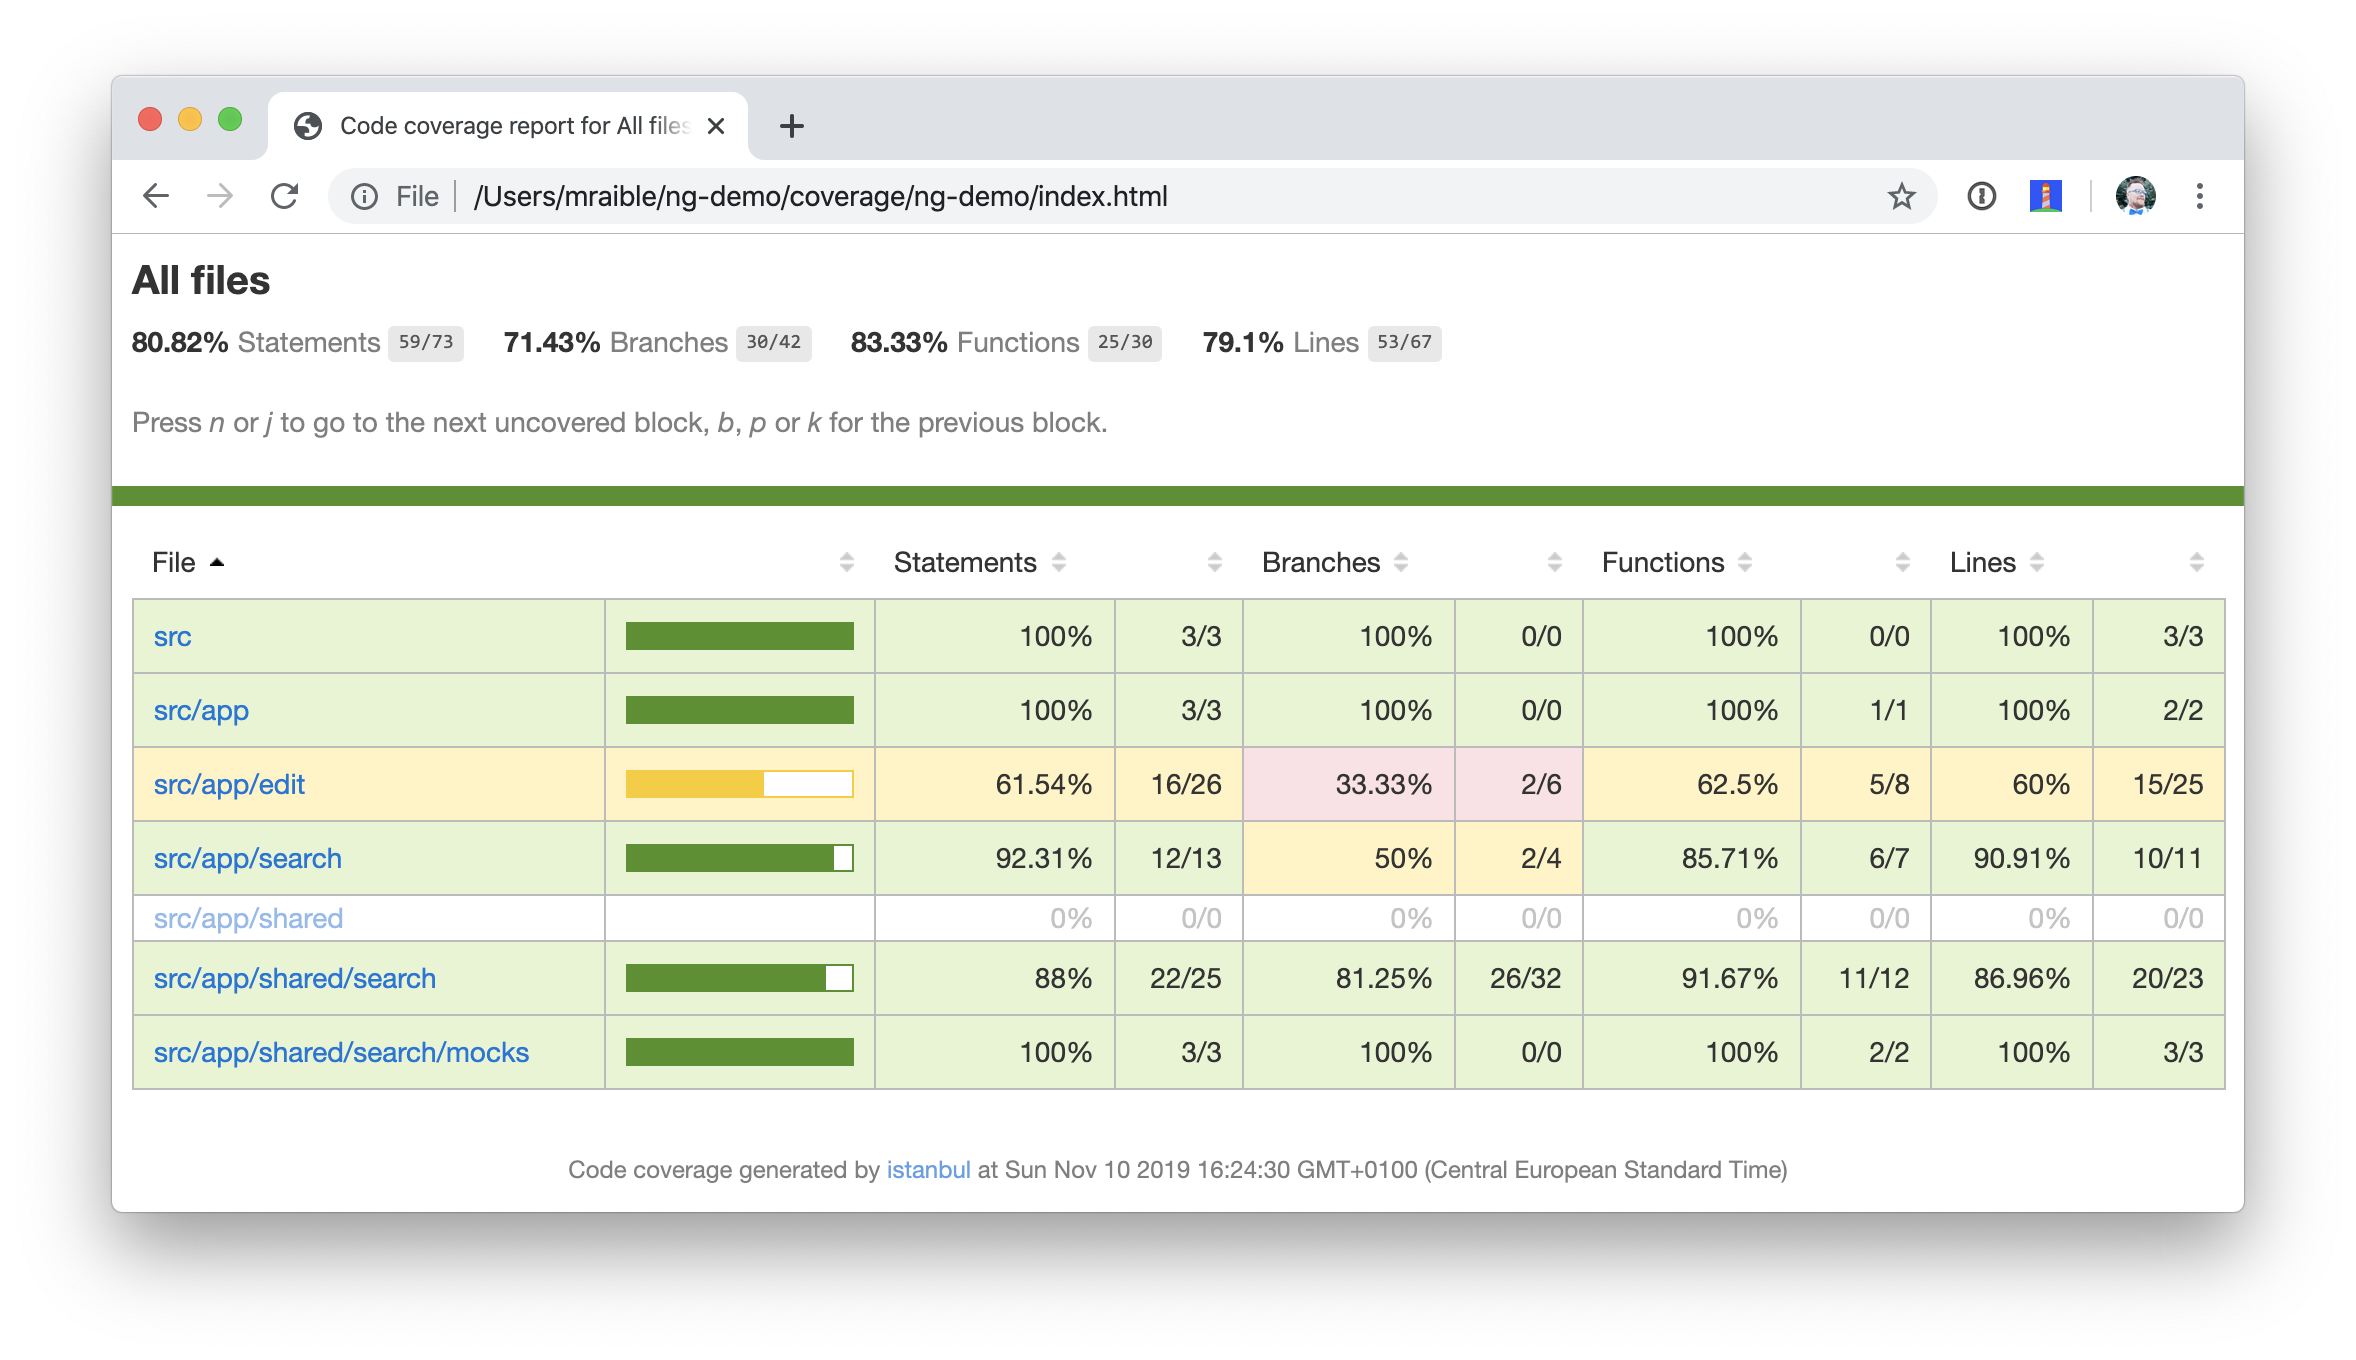
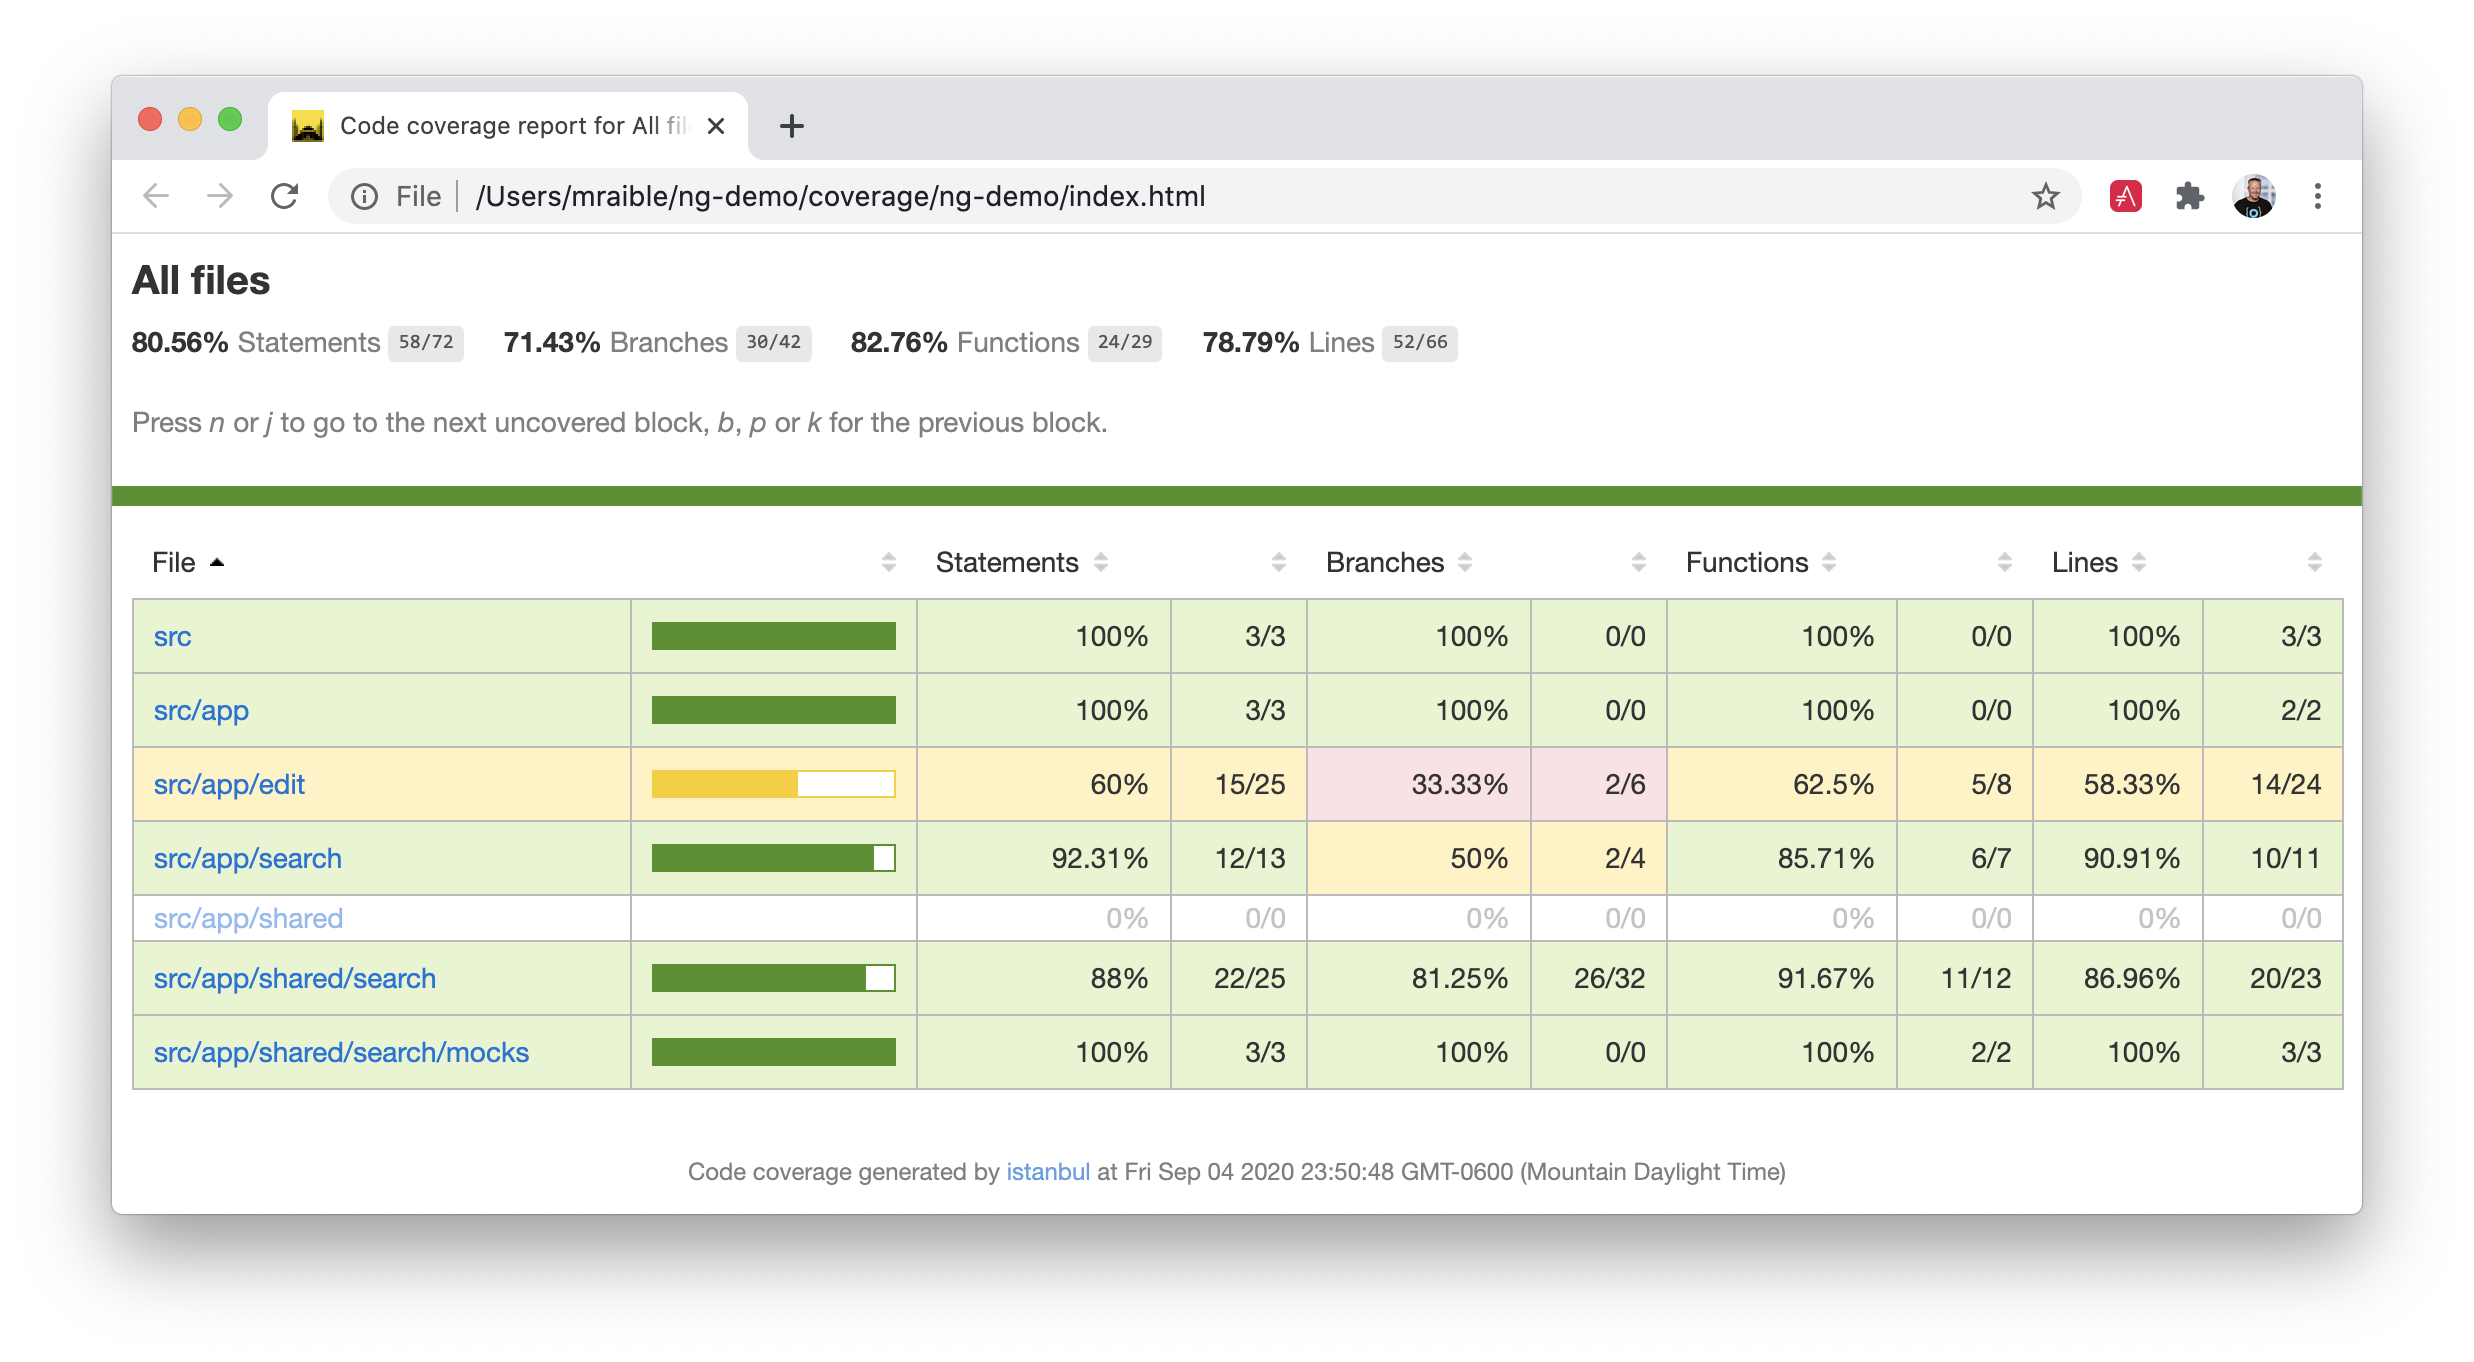
Update CI to add GitHub Actions Update Heroku instructions to use static buildpack

diff --git a/src/app/edit/edit.component.spec.ts b/src/app/edit/edit.component.spec.ts
@@ -1,25 +1,54 @@
-import { ComponentFixture, TestBed } from '@angular/core/testing';
-
 import { EditComponent } from './edit.component';
+import { TestBed } from '@angular/core/testing';
+import { Address, Person, SearchService } from '../shared';
+import { MockActivatedRoute, MockRouter } from '../shared/search/mocks/routes';
+import { ActivatedRoute, Router } from '@angular/router';
+import { FormsModule } from '@angular/forms';
+import { of } from 'rxjs';
+import { HttpClientTestingModule } from '@angular/common/http/testing';
 
 describe('EditComponent', () => {
-  let component: EditComponent;
-  let fixture: ComponentFixture<EditComponent>;
-
-  beforeEach(async () => {
-    await TestBed.configureTestingModule({
-      declarations: [ EditComponent ]
-    })
-    .compileComponents();
-  });
+  let mockSearchService: SearchService;
+  let mockActivatedRoute: MockActivatedRoute;
+  let mockRouter: MockRouter;
 
   beforeEach(() => {
-    fixture = TestBed.createComponent(EditComponent);
-    component = fixture.componentInstance;
-    fixture.detectChanges();
+    mockActivatedRoute = new MockActivatedRoute({id: 1});
+    mockRouter = new MockRouter();
+
+    TestBed.configureTestingModule({
+      declarations: [EditComponent],
+      providers: [
+        {provide: ActivatedRoute, useValue: mockActivatedRoute},
+        {provide: Router, useValue: mockRouter}
+      ],
+      imports: [FormsModule, HttpClientTestingModule]
+    }).compileComponents();
+
+    mockSearchService = TestBed.inject(SearchService);
   });
 
-  it('should create', () => {
-    expect(component).toBeTruthy();
+  it('should fetch a single record', () => {
+    const fixture = TestBed.createComponent(EditComponent);
+
+    const person = new Person({id: 1, name: 'Gary Harris'});
+    person.address = new Address({city: 'Denver'});
+
+    // mock response
+    spyOn(mockSearchService, 'get').and.returnValue(of(person));
+
+    // initialize component
+    fixture.detectChanges();
+
+    // verify service was called
+    expect(mockSearchService.get).toHaveBeenCalledWith(1);
+
+    // verify data was set on component when initialized
+    const editComponent = fixture.debugElement.componentInstance;
+    expect(editComponent.editAddress.city).toBe('Denver');
+
+    // verify HTML renders as expected
+    const compiled = fixture.debugElement.nativeElement;
+    expect(compiled.querySelector('h3').innerHTML).toBe('Gary Harris');
   });
 });

diff --git a/src/app/search/search.component.spec.ts b/src/app/search/search.component.spec.ts
@@ -1,19 +1,37 @@
 import { ComponentFixture, TestBed } from '@angular/core/testing';
-
 import { SearchComponent } from './search.component';
+import { SearchService } from '../shared';
+import { ActivatedRoute } from '@angular/router';
+import { RouterTestingModule } from '@angular/router/testing';
+import { FormsModule } from '@angular/forms';
+import { MockActivatedRoute } from '../shared/search/mocks/routes';
+import { of } from 'rxjs';
+import { HttpClientTestingModule } from '@angular/common/http/testing';
 
 describe('SearchComponent', () => {
   let component: SearchComponent;
   let fixture: ComponentFixture<SearchComponent>;
+  let mockSearchService: SearchService;
+  let mockActivatedRoute: MockActivatedRoute;
 
-  beforeEach(async () => {
-    await TestBed.configureTestingModule({
-      declarations: [ SearchComponent ]
-    })
-    .compileComponents();
-  });
+  beforeEach((() => {
+    mockActivatedRoute = new MockActivatedRoute({term: 'nikola'});
+
+    TestBed.configureTestingModule({
+      declarations: [SearchComponent],
+      providers: [
+        {provide: ActivatedRoute, useValue: mockActivatedRoute}
+      ],
+      imports: [FormsModule, RouterTestingModule, HttpClientTestingModule]
+    }).compileComponents();
+  }));
 
   beforeEach(() => {
+    // mock response
+    mockSearchService = TestBed.inject(SearchService);
+    mockSearchService.search = jasmine.createSpy().and.returnValue(of([]));
+
+    // initialize component
     fixture = TestBed.createComponent(SearchComponent);
     component = fixture.componentInstance;
     fixture.detectChanges();
@@ -21,5 +39,17 @@ describe('SearchComponent', () => {
 
   it('should create', () => {
     expect(component).toBeTruthy();
+  });
+
+  it('should search when a term is set and search() is called', () => {
+    component = fixture.debugElement.componentInstance;
+    component.query = 'J';
+    component.search();
+    expect(mockSearchService.search).toHaveBeenCalledWith('J');
+  });
+
+  it('should search automatically when a term is on the URL', () => {
+    fixture.detectChanges();
+    expect(mockSearchService.search).toHaveBeenCalledWith('nikola');
   });
 });

diff --git a/src/app/shared/search/search.service.spec.ts b/src/app/shared/search/search.service.spec.ts
@@ -1,16 +1,71 @@
 import { TestBed } from '@angular/core/testing';
-
 import { SearchService } from './search.service';
+import { HttpClientTestingModule, HttpTestingController } from '@angular/common/http/testing';
 
 describe('SearchService', () => {
   let service: SearchService;
+  let httpMock: HttpTestingController;
 
   beforeEach(() => {
-    TestBed.configureTestingModule({});
+    TestBed.configureTestingModule({
+      imports: [HttpClientTestingModule],
+      providers: [SearchService]
+    });
+
     service = TestBed.inject(SearchService);
+    httpMock = TestBed.inject(HttpTestingController);
+  });
+
+  afterEach(() => {
+    httpMock.verify();
   });
 
   it('should be created', () => {
     expect(service).toBeTruthy();
+  });
+
+  it('should retrieve all search results', () => {
+    const mockResponse = [
+      {name: 'Nikola Jokić'},
+      {name: 'Mike Malone'}
+    ];
+
+    service.getAll().subscribe((people: any) => {
+      expect(people.length).toBe(2);
+      expect(people[0].name).toBe('Nikola Jokić');
+      expect(people).toEqual(mockResponse);
+    });
+
+    const req = httpMock.expectOne('assets/data/people.json');
+    expect(req.request.method).toBe('GET');
+    req.flush(mockResponse);
+  });
+
+  it('should filter by search term', () => {
+    const mockResponse = [{name: 'Nikola Jokić'}];
+
+    service.search('nik').subscribe((people: any) => {
+      expect(people.length).toBe(1);
+      expect(people[0].name).toBe('Nikola Jokić');
+    });
+
+    const req = httpMock.expectOne('assets/data/people.json');
+    expect(req.request.method).toBe('GET');
+    req.flush(mockResponse);
+  });
+
+  it('should fetch by id', () => {
+    const mockResponse = [
+      {id: 1, name: 'Nikola Jokić'},
+      {id: 2, name: 'Mike Malone'}
+    ];
+
+    service.get(2).subscribe((person: any) => {
+      expect(person.name).toBe('Mike Malone');
+    });
+
+    const req = httpMock.expectOne('assets/data/people.json');
+    expect(req.request.method).toBe('GET');
+    req.flush(mockResponse);
   });
 });

diff --git a/src/app/app.component.spec.ts b/src/app/app.component.spec.ts
@@ -30,6 +30,6 @@ describe('AppComponent', () => {
     const fixture = TestBed.createComponent(AppComponent);
     fixture.detectChanges();
     const compiled = fixture.nativeElement;
-    expect(compiled.querySelector('.content span').textContent).toContain('ng-demo app is running!');
+    expect(compiled.querySelector('h1').textContent).toContain('Welcome to ng-demo!');
   });
 });

diff --git a/e2e/src/app.e2e-spec.ts b/e2e/src/app.e2e-spec.ts
@@ -10,7 +10,7 @@ describe('workspace-project App', () => {
 
   it('should display welcome message', () => {
     page.navigateTo();
-    expect(page.getTitleText()).toEqual('ng-demo app is running!');
+    expect(page.getTitleText()).toEqual('Welcome to ng-demo!');
   });
 
   afterEach(async () => {

diff --git a/e2e/src/app.po.ts b/e2e/src/app.po.ts
@@ -6,6 +6,6 @@ export class AppPage {
   }
 
   getTitleText(): Promise<string> {
-    return element(by.css('app-root .content span')).getText() as Promise<string>;
+    return element(by.css('app-root h1')).getText() as Promise<string>;
   }
 }
